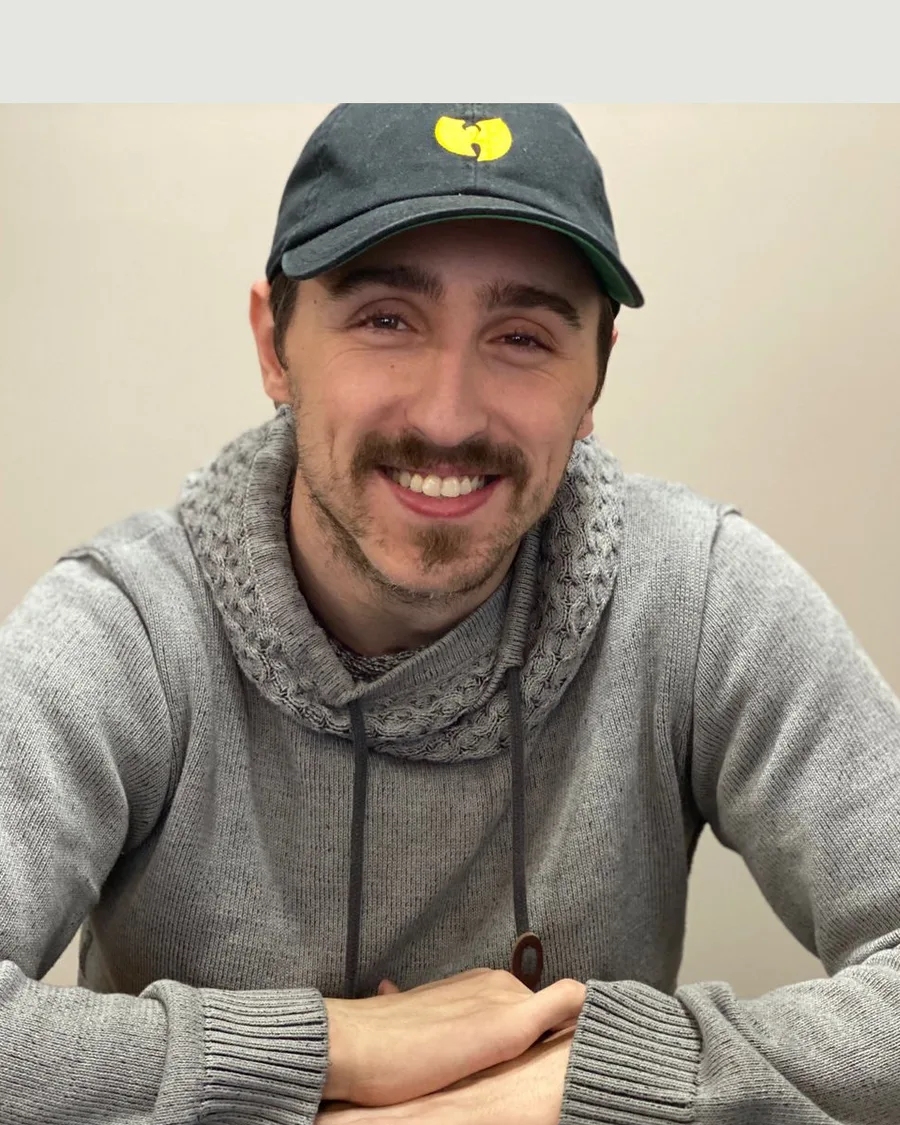
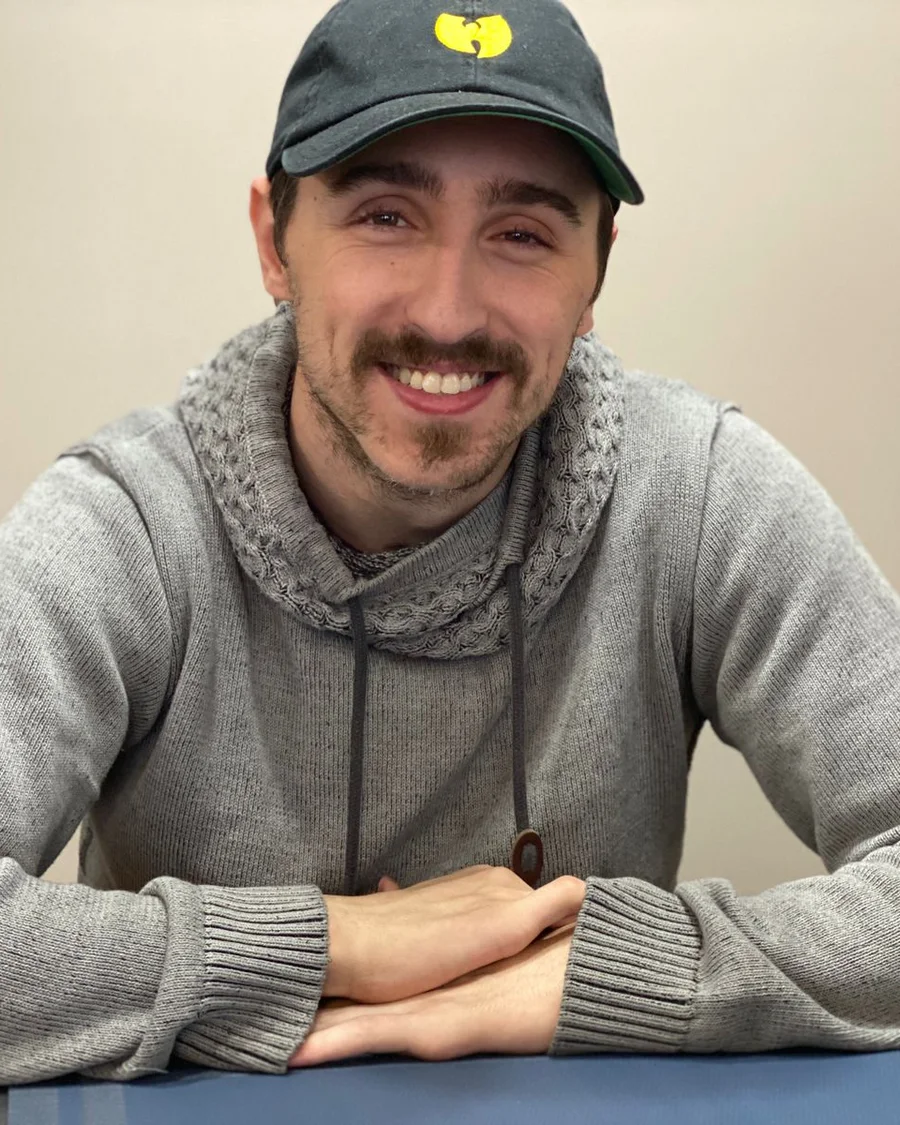
Remove Shay portrait cream pad above the hat.
The source photo already clips the cap crown, so those pixels cannot be
restored cleanly without inventing them. Drop the flat cream pad and use
a clean crop so the hat meets the top of the frame.

diff --git a/index.html b/index.html
@@ -1,2 +1,2 @@
 <!DOCTYPE html><html lang="en"><head><meta charSet="utf-8"/><meta name="viewport" content="width=device-width, initial-scale=1"/><link rel="preload" as="image" imageSrcSet="/brand/mark.png 240w" fetchPriority="high"/><link rel="preload" as="image" imageSrcSet="/brand/students-talking.webp 640w, /brand/students-talking.webp 750w, /brand/students-talking.webp 828w, /brand/students-talking.webp 1080w, /brand/students-talking.webp 1200w, /brand/students-talking.webp 1920w, /brand/students-talking.webp 2048w" fetchPriority="high"/><link rel="stylesheet" href="/assets/index-DaJtWo0m.css" data-rsc-css-href="/assets/index-DaJtWo0m.css" data-precedence="vite-rsc/importer-resources"/><link rel="modulepreload" href="/assets/layout-segment-context-BQh8MjWG.js" crossorigin=""/><link rel="modulepreload" href="/assets/rolldown-runtime-S-ySWqyJ.js" crossorigin=""/><link rel="modulepreload" href="/assets/index-Bke942kS.js" crossorigin=""/><link rel="modulepreload" href="/assets/framework-CXnKph_e.js" crossorigin=""/><link rel="modulepreload" href="/assets/page-A6HLCril.js" crossorigin=""/><meta property="og:type" content="website"/><meta name="twitter:card" content="summary"/><link rel="icon" href="/favicon.svg"/><title>Just Keep Talking | Online English for Adults &amp; Kids</title><meta name="description" content="Personalized language instruction built around your level, goals, and needs."/><meta property="og:title" content="Just Keep Talking | Online English for Adults &amp; Kids"/><meta property="og:description" content="Personalized language instruction built around your level, goals, and needs."/><meta property="og:locale" content="en_US"/><meta name="twitter:title" content="Just Keep Talking | Online English for Adults &amp; Kids"/><meta name="twitter:description" content="Personalized language instruction built around your level, goals, and needs."/><script>self.__VINEXT_RSC_PARAMS__={}</script><script>self.__VINEXT_RSC_NAV__={"pathname":"/","searchParams":[]}</script><link rel="modulepreload" href="/assets/index-Bke942kS.js" />
-</head><body><div class="site-shell" lang="en"><a class="skip-link" href="#main">Skip to content</a><header class="header"><a class="brand-lockup" href="/?lang=en&amp;page=home" aria-label="Just Keep Talking home"><img src="/brand/mark.png" alt="" width="240" height="164" loading="eager" fetchPriority="high" decoding="async" srcSet="/brand/mark.png 240w" class="logo" data-nimg="1"/><span class="brand-name">Just Keep Talking</span></a><button class="menu-toggle" aria-expanded="false" aria-controls="main-navigation">Menu</button><nav id="main-navigation" class="" aria-label="Main navigation"><a href="/?lang=en&amp;page=classes&amp;audience=adults&amp;format=private&amp;currency=CRC&amp;size=2">Classes &amp; pricing</a><a href="/?lang=en&amp;page=approach">Our approach</a><a href="/?lang=en&amp;page=about">Story &amp; team</a><a href="/?lang=en&amp;page=faq">FAQ</a><a class="nav-whatsapp" href="https://wa.me/50686858056?text=Hi!%20I%E2%80%99d%20like%20to%20talk%20about%20English%20classes%20and%20the%20intake%20process." target="_blank" rel="noreferrer">WhatsApp</a></nav><a class="language" href="/?lang=es&amp;page=home" hrefLang="es" aria-label="Cambiar a español">ES</a></header><main id="main"><section class="hero"><div><p class="eyebrow">Your virtual language academy</p><h1>Build the confidence<!-- --> <em>to speak.</em></h1><p class="intro">Personalized language instruction built around your level, goals, and needs.</p><a class="button primary" href="https://wa.me/50686858056?text=Hi!%20I%E2%80%99d%20like%20to%20talk%20about%20English%20classes%20and%20the%20intake%20process." target="_blank" rel="noreferrer">Let’s talk on WhatsApp</a><p class="micro">Certified native teachers · Personalized learning · Authentic conversation</p></div><div class="hero-visual"><img src="/brand/students-talking.webp" alt="Three teachers sharing a book and laughing together" width="1600" height="1066" loading="eager" fetchPriority="high" decoding="async" srcSet="/brand/students-talking.webp 640w, /brand/students-talking.webp 750w, /brand/students-talking.webp 828w, /brand/students-talking.webp 1080w, /brand/students-talking.webp 1200w, /brand/students-talking.webp 1920w, /brand/students-talking.webp 2048w" data-nimg="1"/></div></section><section class="section audience-section" aria-labelledby="audiences-title"><h2 id="audiences-title">Language for you.</h2><div class="audience-grid"><a class="audience-card" href="/?lang=en&amp;page=classes&amp;audience=adults&amp;format=private&amp;currency=CRC&amp;size=2"><h3>Adults</h3><p>Whether you need English for work, travel, school, or just because you want to, we shape classes around the conversations that matter to you.</p><span class="text-link">Explore adult classes<!-- --> ↗</span></a><a class="audience-card kids-path" href="/?lang=en&amp;page=classes&amp;audience=kids&amp;format=private&amp;currency=CRC&amp;size=2"><h3>Kids</h3><p>Practice, play, and connection in a safe space to grow in confidence.</p><span class="text-link">Explore kids’ classes<!-- --> ↗</span></a></div></section><section class="section approach-teaser"><div><h2>Our approach</h2><p class="intro">Before your first official class, we have a meeting where we talk about your goals, give a brief oral evaluation, and customize your learning plan.</p><a class="text-link" href="/?lang=en&amp;page=approach">Read our approach<!-- --> ↗</a></div></section><section class="founder-band"><div class="section founder-preview"><div><h2>How Just Keep Talking started</h2></div><div><img src="/brand/audrey-home-founder.webp" alt="Audrey, founder of Just Keep Talking" width="900" height="1350" loading="lazy" decoding="async" srcSet="/brand/audrey-home-founder.webp 640w, /brand/audrey-home-founder.webp 750w, /brand/audrey-home-founder.webp 828w, /brand/audrey-home-founder.webp 1080w, /brand/audrey-home-founder.webp 1200w" class="founder-preview-portrait" data-nimg="1"/><p class="intro">I’ve been studying Spanish since I was young, always with very traditional methods. Even after years of grammar drills and memorization, I never felt truly confident speaking. Everything changed during an exchange in Costa Rica. Real conversations and real connections helped my Spanish grow. In 2021, I moved here and began Just Keep Talking: personalized online lessons in a space where students want to speak and feel safe to make mistakes.</p><a class="text-link" href="/?lang=en&amp;page=about">Read Audrey’s story<!-- --> ↗</a></div></div></section><section class="section"><div class="section-intro"><h2>Meet our community</h2><a class="text-link" href="/?lang=en&amp;page=about#team">See more<!-- --> ↗</a></div><div class="team-grid"><article class="team-card"><div class="portrait portrait-audrey"><img src="/brand/audrey-teacher.webp" alt="Audrey" width="900" height="1350" loading="lazy" decoding="async" srcSet="/brand/audrey-teacher.webp 640w, /brand/audrey-teacher.webp 750w, /brand/audrey-teacher.webp 828w, /brand/audrey-teacher.webp 1080w, /brand/audrey-teacher.webp 1200w" sizes="(max-width: 700px) 90vw, 30vw" data-nimg="1"/></div><h3>Audrey</h3><p class="role">Founder &amp; teacher</p><p>Hello, hello! I&#x27;m Audrey, and I&#x27;m originally from Michigan, USA. I moved to Costa Rica in 2021 after falling in love with the country during a six-month exchange program in 2018. I love the people, nature, food, and culture, and I&#x27;m so happy to call Costa Rica home!</p><p>I studied Spanish, education, and English linguistics at university, so I&#x27;m kind of a grammar nerd! I&#x27;ve spent years both teaching and learning languages, so I know how challenging and rewarding the process can be. One of my favorite parts of teaching is helping students build confidence and discover new opportunities through English.</p><p>Outside of the classroom, I love traveling, reading, cooking, hiking, and spending time with friends and family. I can&#x27;t wait to meet you!</p></article><article class="team-card"><div class="portrait portrait-monique"><img src="/brand/monique-teacher.webp" alt="Monique" width="900" height="1350" loading="lazy" decoding="async" srcSet="/brand/monique-teacher.webp 640w, /brand/monique-teacher.webp 750w, /brand/monique-teacher.webp 828w, /brand/monique-teacher.webp 1080w, /brand/monique-teacher.webp 1200w" sizes="(max-width: 700px) 90vw, 30vw" data-nimg="1"/></div><h3>Monique</h3><p class="role">Teacher</p><p>Hi, I’m Monique! I have a passion for sharing information. I’ve been a preschool teacher, an assistant professor at a university, I’ve taught parents about Child Development, and I’ve taught Math, English, and Yoga virtually over the past 4 years. I love spending time outdoors and am always ready to hop in the car or on a motorcycle to go on an adventure. I like practicing yoga, cooking, and gardening. I also really enjoy hanging out with my friends and going for coffee. The beach is my happy place! Reading and learning are also passions of mine, which are what fuel my love of teaching!</p></article><article class="team-card"><div class="portrait portrait-cristian"><img src="/brand/cristian-teacher.webp" alt="Cristian" width="900" height="1350" loading="lazy" decoding="async" srcSet="/brand/cristian-teacher.webp 640w, /brand/cristian-teacher.webp 750w, /brand/cristian-teacher.webp 828w, /brand/cristian-teacher.webp 1080w, /brand/cristian-teacher.webp 1200w" sizes="(max-width: 700px) 90vw, 30vw" data-nimg="1"/></div><h3>Cristian</h3><p class="role">Teacher</p><p>¡Hola! I’m Cristian, and teaching Spanish is my passion because I love connecting cultures and walking with my students as they discover a new language. With more than 15 years of experience, I’ve worked with people from all over the world, helping them speak Spanish with ease, joy, and confidence. In my classes, learning is lived: we talk, we explore culture, and we learn in a close, dynamic, and meaningful way.</p></article></div></section><section class="closing"><div><p class="eyebrow">Your next conversation starts here</p><h2>Tell us where you want language to take you.</h2><p>We&#x27;ll talk about your goals, experience, and current level before we create your personalized learning plan.</p></div><a class="button light" href="https://wa.me/50686858056?text=Hi!%20I%E2%80%99d%20like%20to%20talk%20about%20English%20classes%20and%20the%20intake%20process." target="_blank" rel="noreferrer">Let’s talk on WhatsApp</a></section></main><footer><div class="footer-brand"><div class="brand-lockup"><img src="/brand/mark-white.png" alt="" width="240" height="164" loading="lazy" decoding="async" srcSet="/brand/mark-white.png 240w" class="logo" data-nimg="1"/><span class="brand-name">Just Keep Talking</span></div></div><nav aria-label="Footer navigation"><a href="/?lang=en&amp;page=classes&amp;audience=adults&amp;format=private&amp;currency=CRC&amp;size=2">Classes &amp; pricing</a><a href="/?lang=en&amp;page=policies">Policy overview</a><a href="/?lang=en&amp;page=teach">Teach with us</a><a href="/?lang=en&amp;page=curriculum">Curriculum inquiries</a></nav><div class="footer-contact"><a href="https://wa.me/50686858056?text=Hi!%20I%E2%80%99d%20like%20to%20talk%20about%20English%20classes%20and%20the%20intake%20process." target="_blank" rel="noreferrer">WhatsApp · +506 8685 8056</a><a href="mailto:justkeeptalkingcr@gmail.com">justkeeptalkingcr@gmail.com</a><a href="https://www.instagram.com/justkeeptalkingcr/" target="_blank" rel="noreferrer">Instagram · @justkeeptalkingcr</a></div>    </footer></div><script id="_R_">import("/assets/index-Bke942kS.js")</script></body></html><script>self.__VINEXT_RSC_CHUNKS__=self.__VINEXT_RSC_CHUNKS__||[];self.__VINEXT_RSC_CHUNKS__.push("2:I[\"02f2dc0a781d\",[],\"Children\",1]\n3:I[\"fd59039ddc1f\",[],\"LayoutSegmentProvider\",1]\n4:I[\"02f2dc0a781d\",[],\"Slot\",1]\n5:I[\"5d22af92c4c3\",[],\"RedirectBoundary\",1]\n:HL[\"/assets/index-DaJtWo0m.css\",\"style\"]\n0:{\"__route\":\"route:/\",\"__interceptionContext\":null,\"__layoutIds\":[\"layout:/\"],\"__rootLayout\":\"/\",\"page:/\":\"$L1\",\"layout:/\":[[[[\"$\",\"link\",\"css:/assets/index-DaJtWo0m.css\",{\"rel\":\"stylesheet\",\"precedence\":\"vite-rsc/importer-resources\",\"href\":\"/assets/index-DaJtWo0m.css\",\"data-rsc-css-href\":\"/assets/index-DaJtWo0m.css\"}],\"$undefined\"],[\"$\",\"html\",null,{\"lang\":\"en\",\"children\":[\"$\",\"body\",null,{\"children\":[\"$\",\"$L2\",null,{}]}]}]],null],\"route:/\":[[[\"$\",\"meta\",null,{\"charSet\":\"utf-8\"}],[[\"$\",\"meta\",\"0\",{\"property\":\"og:type\",\"content\":\"website\"}],[\"$\",\"meta\",\"1\",{\"name\":\"twitter:card\",\"content\":\"summary\"}],[\"$\",\"link\",\"2\",{\"rel\":\"icon\",\"href\":\"/favicon.svg\"}]],[[\"$\",\"meta\",\"0\",{\"name\":\"viewport\",\"content\":\"width=device-width, initial-scale=1\"}]]],[\"$\",\"$L3\",null,{\"segmentMap\":{\"children\":[]},\"children\":[\"$\",\"$L4\",null,{\"id\":\"layout:/\",\"parallelSlots\":\"$undefined\",\"children\":[\"$\",\"$L5\",null,{\"children\":[\"$\",\"$L3\",null,{\"segmentMap\":{\"children\":[]},\"children\":[\"$\",\"$L4\",null,{\"id\":\"page:/\"}]}]}]}]}]],\"__layoutFlags\":{\"layout:/\":\"s\"},\"__artifactCompatibility\":{\"schemaVersion\":1,\"graphVersion\":\"app-route-graph:4uhn5s1wvoptc\",\"deploymentVersion\":\"bd3a3f9a-0032-4221-88c8-9d6687b6e2ca\",\"appElementsSchemaVersion\":1,\"rscPayloadSchemaVersion\":1,\"rootBoundaryId\":\"/\",\"renderEpoch\":null}}\n")</script><script>self.__VINEXT_RSC_CHUNKS__=self.__VINEXT_RSC_CHUNKS__||[];self.__VINEXT_RSC_CHUNKS__.push("6:I[\"6efdf509a785\",[],\"default\",1]\n1:[\"$\",\"$L6\",null,{\"params\":\"$@7\",\"searchParams\":\"$@8\"}]\n")</script><script>self.__VINEXT_RSC_CHUNKS__=self.__VINEXT_RSC_CHUNKS__||[];self.__VINEXT_RSC_CHUNKS__.push("7:{}\n8:{}\n")</script><script>self.__VINEXT_RSC_DONE__=true</script>
+</head><body><div class="site-shell" lang="en"><a class="skip-link" href="#main">Skip to content</a><header class="header"><a class="brand-lockup" href="/?lang=en&amp;page=home" aria-label="Just Keep Talking home"><img src="/brand/mark.png" alt="" width="240" height="164" loading="eager" fetchPriority="high" decoding="async" srcSet="/brand/mark.png 240w" class="logo" data-nimg="1"/><span class="brand-name">Just Keep Talking</span></a><button class="menu-toggle" aria-expanded="false" aria-controls="main-navigation">Menu</button><nav id="main-navigation" class="" aria-label="Main navigation"><a href="/?lang=en&amp;page=classes&amp;audience=adults&amp;format=private&amp;currency=CRC&amp;size=2">Classes &amp; pricing</a><a href="/?lang=en&amp;page=approach">Our approach</a><a href="/?lang=en&amp;page=about">Story &amp; team</a><a href="/?lang=en&amp;page=faq">FAQ</a><a class="nav-whatsapp" href="https://wa.me/50686858056?text=Hi!%20I%E2%80%99d%20like%20to%20talk%20about%20English%20classes%20and%20the%20intake%20process." target="_blank" rel="noreferrer">WhatsApp</a></nav><a class="language" href="/?lang=es&amp;page=home" hrefLang="es" aria-label="Cambiar a español">ES</a></header><main id="main"><section class="hero"><div><p class="eyebrow">Your virtual language academy</p><h1>Build the confidence<!-- --> <em>to speak.</em></h1><p class="intro">Personalized language instruction built around your level, goals, and needs.</p><a class="button primary" href="https://wa.me/50686858056?text=Hi!%20I%E2%80%99d%20like%20to%20talk%20about%20English%20classes%20and%20the%20intake%20process." target="_blank" rel="noreferrer">Let’s talk on WhatsApp</a><p class="micro">Certified native teachers · Personalized learning · Authentic conversation</p></div><div class="hero-visual"><img src="/brand/students-talking.webp" alt="Three teachers sharing a book and laughing together" width="1600" height="1066" loading="eager" fetchPriority="high" decoding="async" srcSet="/brand/students-talking.webp 640w, /brand/students-talking.webp 750w, /brand/students-talking.webp 828w, /brand/students-talking.webp 1080w, /brand/students-talking.webp 1200w, /brand/students-talking.webp 1920w, /brand/students-talking.webp 2048w" data-nimg="1"/></div></section><section class="section audience-section" aria-labelledby="audiences-title"><h2 id="audiences-title">Language for you.</h2><div class="audience-grid"><a class="audience-card" href="/?lang=en&amp;page=classes&amp;audience=adults&amp;format=private&amp;currency=CRC&amp;size=2"><h3>Adults</h3><p>Whether you need English for work, travel, school, or just because you want to, we shape classes around the conversations that matter to you.</p><span class="text-link">Explore adult classes<!-- --> ↗</span></a><a class="audience-card kids-path" href="/?lang=en&amp;page=classes&amp;audience=kids&amp;format=private&amp;currency=CRC&amp;size=2"><h3>Kids</h3><p>Practice, play, and connection in a safe space to grow in confidence.</p><span class="text-link">Explore kids’ classes<!-- --> ↗</span></a></div></section><section class="section approach-teaser"><div><h2>Our approach</h2><p class="intro">Before your first official class, we have a meeting where we talk about your goals, give a brief oral evaluation, and customize your learning plan.</p><a class="text-link" href="/?lang=en&amp;page=approach">Read our approach<!-- --> ↗</a></div></section><section class="founder-band"><div class="section founder-preview"><div><h2>How Just Keep Talking started</h2></div><div><img src="/brand/audrey-home-founder.webp" alt="Audrey, founder of Just Keep Talking" width="900" height="1350" loading="lazy" decoding="async" srcSet="/brand/audrey-home-founder.webp 640w, /brand/audrey-home-founder.webp 750w, /brand/audrey-home-founder.webp 828w, /brand/audrey-home-founder.webp 1080w, /brand/audrey-home-founder.webp 1200w" class="founder-preview-portrait" data-nimg="1"/><p class="intro">I’ve been studying Spanish since I was young, always with very traditional methods. Even after years of grammar drills and memorization, I never felt truly confident speaking. Everything changed during an exchange in Costa Rica. Real conversations and real connections helped my Spanish grow. In 2021, I moved here and began Just Keep Talking: personalized online lessons in a space where students want to speak and feel safe to make mistakes.</p><a class="text-link" href="/?lang=en&amp;page=about">Read Audrey’s story<!-- --> ↗</a></div></div></section><section class="section"><div class="section-intro"><h2>Meet our community</h2><a class="text-link" href="/?lang=en&amp;page=about#team">See more<!-- --> ↗</a></div><div class="team-grid"><article class="team-card"><div class="portrait portrait-audrey"><img src="/brand/audrey-teacher.webp" alt="Audrey" width="900" height="1350" loading="lazy" decoding="async" srcSet="/brand/audrey-teacher.webp 640w, /brand/audrey-teacher.webp 750w, /brand/audrey-teacher.webp 828w, /brand/audrey-teacher.webp 1080w, /brand/audrey-teacher.webp 1200w" sizes="(max-width: 700px) 90vw, 30vw" data-nimg="1"/></div><h3>Audrey</h3><p class="role">Founder &amp; teacher</p><p>Hello, hello! I&#x27;m Audrey, and I&#x27;m originally from Michigan, USA. I moved to Costa Rica in 2021 after falling in love with the country during a six-month exchange program in 2018. I love the people, nature, food, and culture, and I&#x27;m so happy to call Costa Rica home!</p><p>I studied Spanish, education, and English linguistics at university, so I&#x27;m kind of a grammar nerd! I&#x27;ve spent years both teaching and learning languages, so I know how challenging and rewarding the process can be. One of my favorite parts of teaching is helping students build confidence and discover new opportunities through English.</p><p>Outside of the classroom, I love traveling, reading, cooking, hiking, and spending time with friends and family. I can&#x27;t wait to meet you!</p></article><article class="team-card"><div class="portrait portrait-monique"><img src="/brand/monique-teacher.webp" alt="Monique" width="900" height="1350" loading="lazy" decoding="async" srcSet="/brand/monique-teacher.webp 640w, /brand/monique-teacher.webp 750w, /brand/monique-teacher.webp 828w, /brand/monique-teacher.webp 1080w, /brand/monique-teacher.webp 1200w" sizes="(max-width: 700px) 90vw, 30vw" data-nimg="1"/></div><h3>Monique</h3><p class="role">Teacher</p><p>Hi, I’m Monique! I have a passion for sharing information. I’ve been a preschool teacher, an assistant professor at a university, I’ve taught parents about Child Development, and I’ve taught Math, English, and Yoga virtually over the past 4 years. I love spending time outdoors and am always ready to hop in the car or on a motorcycle to go on an adventure. I like practicing yoga, cooking, and gardening. I also really enjoy hanging out with my friends and going for coffee. The beach is my happy place! Reading and learning are also passions of mine, which are what fuel my love of teaching!</p></article><article class="team-card"><div class="portrait portrait-cristian"><img src="/brand/cristian-teacher.webp" alt="Cristian" width="900" height="1350" loading="lazy" decoding="async" srcSet="/brand/cristian-teacher.webp 640w, /brand/cristian-teacher.webp 750w, /brand/cristian-teacher.webp 828w, /brand/cristian-teacher.webp 1080w, /brand/cristian-teacher.webp 1200w" sizes="(max-width: 700px) 90vw, 30vw" data-nimg="1"/></div><h3>Cristian</h3><p class="role">Teacher</p><p>¡Hola! I’m Cristian, and teaching Spanish is my passion because I love connecting cultures and walking with my students as they discover a new language. With more than 15 years of experience, I’ve worked with people from all over the world, helping them speak Spanish with ease, joy, and confidence. In my classes, learning is lived: we talk, we explore culture, and we learn in a close, dynamic, and meaningful way.</p></article></div></section><section class="closing"><div><p class="eyebrow">Your next conversation starts here</p><h2>Tell us where you want language to take you.</h2><p>We&#x27;ll talk about your goals, experience, and current level before we create your personalized learning plan.</p></div><a class="button light" href="https://wa.me/50686858056?text=Hi!%20I%E2%80%99d%20like%20to%20talk%20about%20English%20classes%20and%20the%20intake%20process." target="_blank" rel="noreferrer">Let’s talk on WhatsApp</a></section></main><footer><div class="footer-brand"><div class="brand-lockup"><img src="/brand/mark-white.png" alt="" width="240" height="164" loading="lazy" decoding="async" srcSet="/brand/mark-white.png 240w" class="logo" data-nimg="1"/><span class="brand-name">Just Keep Talking</span></div></div><nav aria-label="Footer navigation"><a href="/?lang=en&amp;page=classes&amp;audience=adults&amp;format=private&amp;currency=CRC&amp;size=2">Classes &amp; pricing</a><a href="/?lang=en&amp;page=policies">Policy overview</a><a href="/?lang=en&amp;page=teach">Teach with us</a><a href="/?lang=en&amp;page=curriculum">Curriculum inquiries</a></nav><div class="footer-contact"><a href="https://wa.me/50686858056?text=Hi!%20I%E2%80%99d%20like%20to%20talk%20about%20English%20classes%20and%20the%20intake%20process." target="_blank" rel="noreferrer">WhatsApp · +506 8685 8056</a><a href="mailto:justkeeptalkingcr@gmail.com">justkeeptalkingcr@gmail.com</a><a href="https://www.instagram.com/justkeeptalkingcr/" target="_blank" rel="noreferrer">Instagram · @justkeeptalkingcr</a></div>    </footer></div><script id="_R_">import("/assets/index-Bke942kS.js")</script></body></html><script>self.__VINEXT_RSC_CHUNKS__=self.__VINEXT_RSC_CHUNKS__||[];self.__VINEXT_RSC_CHUNKS__.push("2:I[\"02f2dc0a781d\",[],\"Children\",1]\n3:I[\"fd59039ddc1f\",[],\"LayoutSegmentProvider\",1]\n4:I[\"02f2dc0a781d\",[],\"Slot\",1]\n5:I[\"5d22af92c4c3\",[],\"RedirectBoundary\",1]\n:HL[\"/assets/index-DaJtWo0m.css\",\"style\"]\n0:{\"__route\":\"route:/\",\"__interceptionContext\":null,\"__layoutIds\":[\"layout:/\"],\"__rootLayout\":\"/\",\"page:/\":\"$L1\",\"layout:/\":[[[[\"$\",\"link\",\"css:/assets/index-DaJtWo0m.css\",{\"rel\":\"stylesheet\",\"precedence\":\"vite-rsc/importer-resources\",\"href\":\"/assets/index-DaJtWo0m.css\",\"data-rsc-css-href\":\"/assets/index-DaJtWo0m.css\"}],\"$undefined\"],[\"$\",\"html\",null,{\"lang\":\"en\",\"children\":[\"$\",\"body\",null,{\"children\":[\"$\",\"$L2\",null,{}]}]}]],null],\"route:/\":[[[\"$\",\"meta\",null,{\"charSet\":\"utf-8\"}],[[\"$\",\"meta\",\"0\",{\"property\":\"og:type\",\"content\":\"website\"}],[\"$\",\"meta\",\"1\",{\"name\":\"twitter:card\",\"content\":\"summary\"}],[\"$\",\"link\",\"2\",{\"rel\":\"icon\",\"href\":\"/favicon.svg\"}]],[[\"$\",\"meta\",\"0\",{\"name\":\"viewport\",\"content\":\"width=device-width, initial-scale=1\"}]]],[\"$\",\"$L3\",null,{\"segmentMap\":{\"children\":[]},\"children\":[\"$\",\"$L4\",null,{\"id\":\"layout:/\",\"parallelSlots\":\"$undefined\",\"children\":[\"$\",\"$L5\",null,{\"children\":[\"$\",\"$L3\",null,{\"segmentMap\":{\"children\":[]},\"children\":[\"$\",\"$L4\",null,{\"id\":\"page:/\"}]}]}]}]}]],\"__layoutFlags\":{\"layout:/\":\"s\"},\"__artifactCompatibility\":{\"schemaVersion\":1,\"graphVersion\":\"app-route-graph:4uhn5s1wvoptc\",\"deploymentVersion\":\"5fd5ae6a-5b9d-423f-81ba-b9851a33a7af\",\"appElementsSchemaVersion\":1,\"rscPayloadSchemaVersion\":1,\"rootBoundaryId\":\"/\",\"renderEpoch\":null}}\n")</script><script>self.__VINEXT_RSC_CHUNKS__=self.__VINEXT_RSC_CHUNKS__||[];self.__VINEXT_RSC_CHUNKS__.push("6:I[\"6efdf509a785\",[],\"default\",1]\n1:[\"$\",\"$L6\",null,{\"params\":\"$@7\",\"searchParams\":\"$@8\"}]\n")</script><script>self.__VINEXT_RSC_CHUNKS__=self.__VINEXT_RSC_CHUNKS__||[];self.__VINEXT_RSC_CHUNKS__.push("7:{}\n8:{}\n")</script><script>self.__VINEXT_RSC_DONE__=true</script>

diff --git a/project/STATUS.md b/project/STATUS.md
@@ -1,5 +1,9 @@
 # Project status
 
+## Shay portrait cream pad removed — 4 November 2026
+
+The earlier Shay re-crop added a flat cream pad above the source frame, which read as a cut through the hat. The owner source photo already clips the crown of the cap, so those pixels cannot be restored from the original. A small non-generative “puzzle piece” clone of the missing crown looked fake, so it was not used. Replaced the live WebP with a clean 4:5 crop from the source (no pad): hat meets the top of the frame naturally.
+
 ## Our story title, team order, Shay/Iain crops — 4 November 2026
 
 Owner request on the about page:
